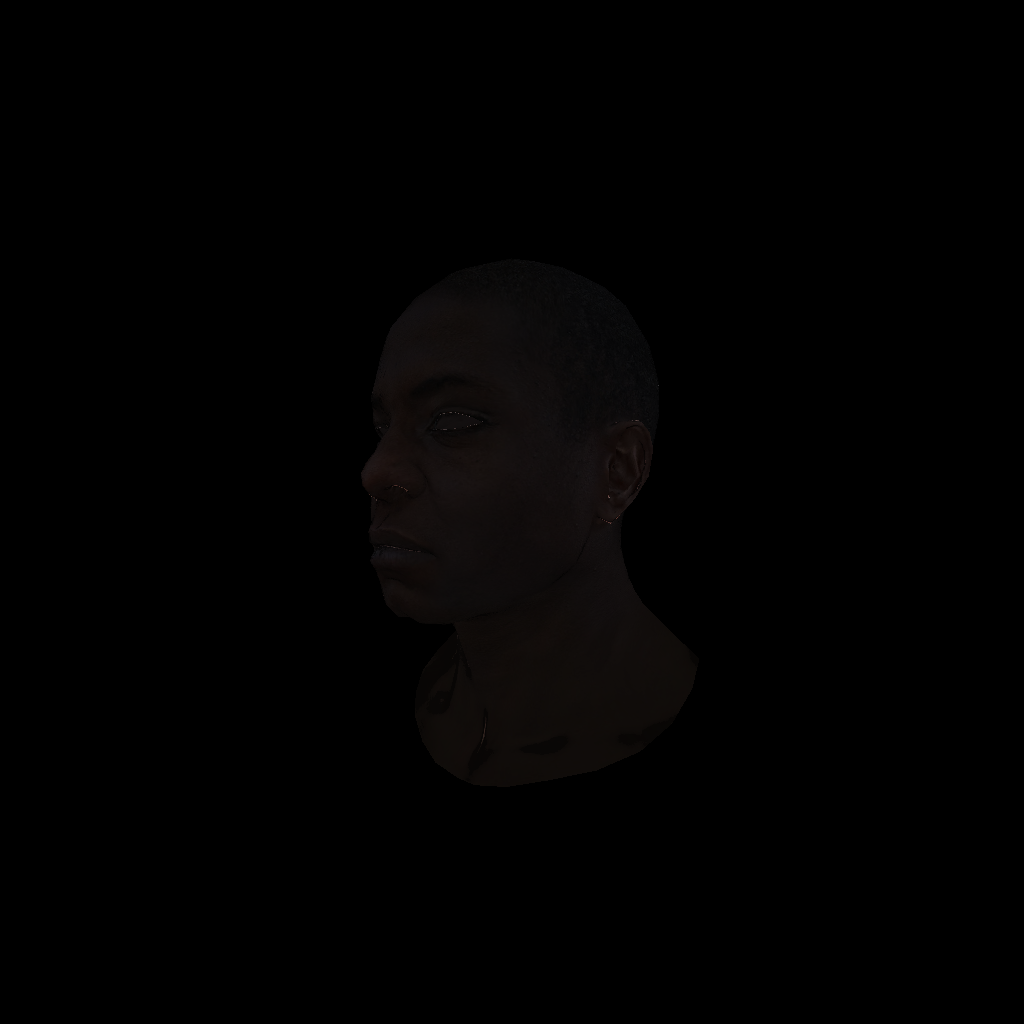
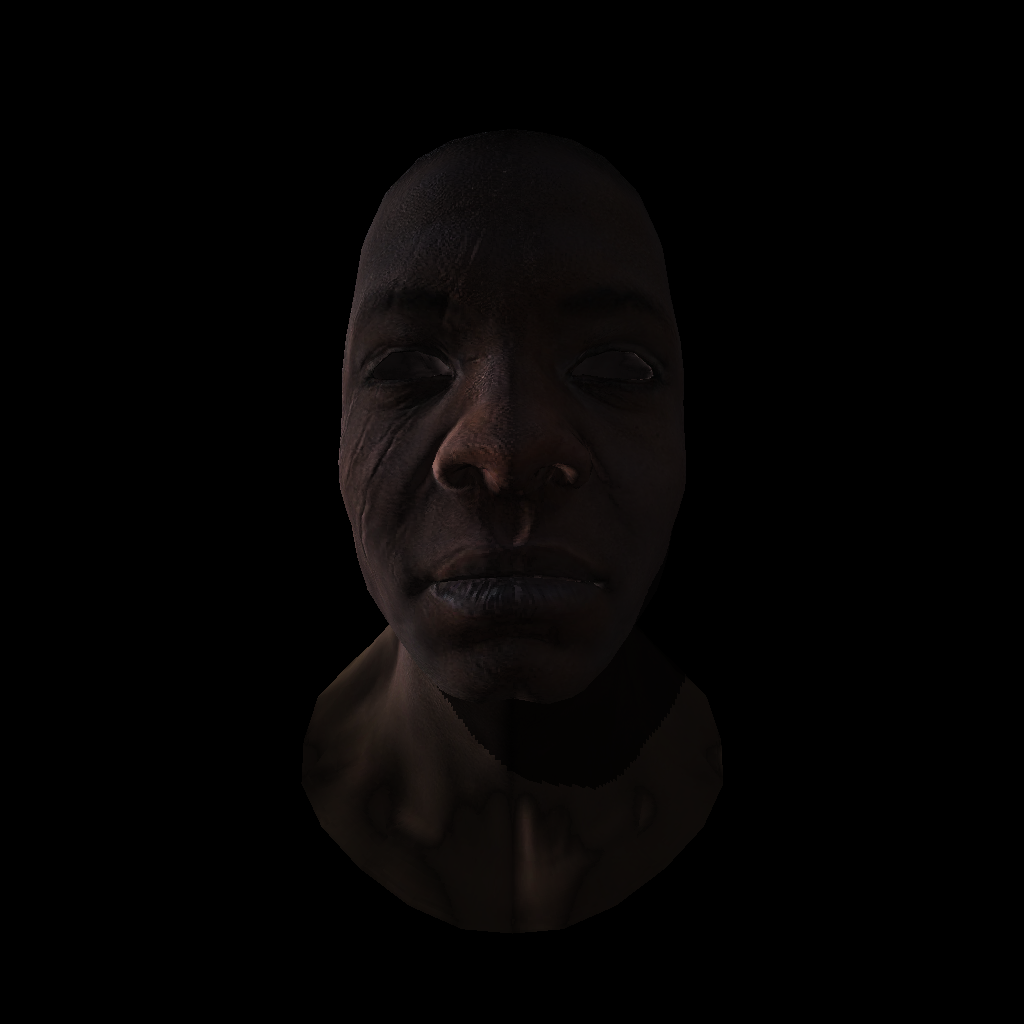
shadow added

Changed region(s): [[0.3125, 0.1562, 0.4688, 0.8125], [0.4062, 0.3438, 0.5, 0.4688], [0.5, 0.7812, 0.5625, 0.9062]]

diff --git a/image.cpp b/image.cpp
@@ -11,9 +11,9 @@ Image::Image() {}
 Image::Image(std::string filename) {
     unsigned char* temp = stbi_load(filename.data(), &width, &height, &channel, 0);
     if (temp != nullptr) {
-        values = std::make_unique<unsigned char[]>(width * height * channel);
+        values = std::make_unique<float[]>(width * height * channel);
         for (int i = 0; i < width * height * channel; i++) {
-            values[i] = temp[i];
+            values[i] = temp[i]/ float(max_pixel_value);
         }
         stbi_image_free(temp);
     } else {
@@ -22,7 +22,7 @@ Image::Image(std::string filename) {
 }
 
 Image::Image(int width, int height, int channel) : height{height}, width{width}, channel{channel} {
-    values = std::make_unique<unsigned char[]>(width * height * channel);
+    values = std::make_unique<float[]>(width * height * channel);
 }
 // std::array<int, 3>& Image::get(int i, int j) {
 //     return values[j * width + i];
@@ -39,32 +39,36 @@ vec3f Image::get(int i, int j) {
         std::cerr << i << " " << j <<std::endl; 
     }
     const auto idx {(j * width + i) * channel};
-    return vec3f{float(values[idx]), float(values[idx+1]), float(values[idx+2])} / max_pixel_value;
+    return vec3f{float(values[idx]), float(values[idx+1]), float(values[idx+2])};
 }
 
 
 void Image::set(int i, int j, vec3f color) {
     const auto idx {(j * width + i) * channel};
-    values[idx] = color[0] * max_pixel_value;
-    values[idx + 1] = color[1] * max_pixel_value;
-    values[idx + 2] = color[2] * max_pixel_value;
+    values[idx] = color[0];
+    values[idx + 1] = color[1];
+    values[idx + 2] = color[2];
 }
 vec3f Image::uv(float i, float j) {
     if (i < 0 or j < 0 or i > 1 or j > 1) {
         std::cerr << i << " " << j << std::endl;
     }
     const auto idx {(int(j * height) * width + int(i * width)) * channel};
-    return vec3f{float(values[idx]), float(values[idx+1]), float(values[idx+2])} / max_pixel_value;
+    return vec3f{float(values[idx]), float(values[idx+1]), float(values[idx+2])};
 }
 
 void Image::write_png(std::string filename, bool flip_vert) {
     stbi_flip_vertically_on_write(flip_vert);
-    stbi_write_png(filename.data(), width, height, channel, values.get(), width*channel);
+    auto temp = std::make_unique<unsigned char[]>(width * height * channel);
+    for (int i = 0; i < width * height * channel; i++) {
+        temp[i] = values[i] * max_pixel_value;
+    }
+    stbi_write_png(filename.data(), width, height, channel, temp.get(), width*channel);
 }
 
 void Image::apply_gamma(float gamma) {
     for (int i = 0; i < height * width * channel; i++) {
-        values[i] = std::pow((float) values[i] / max_pixel_value, gamma) * max_pixel_value;
+        values[i] = std::pow((float) values[i], gamma);
     }
 }
 

diff --git a/shader.h b/shader.h
@@ -53,14 +53,14 @@ struct PhongShader: public Shader<Uniform, class VS_IN, class VS_OUT> {
     };
 
     vec3f fragment_process() override {
-        float shadow = 1;
-        // if (uniform.shadow) {
-        //     vec4f pos_shadow = uniform.transform_shadow * fs_in.viewport_pos;
-        //     pos_shadow = pos_shadow/pos_shadow[3];
-        //     float z = uniform.shadow -> get(pos_shadow[0], pos_shadow[1])[0];
-        //     shadow += .7 *(z < pos_shadow[2]);
-        //     std::cerr << shadow << std::endl;
-        // }
+        float shadow = 0.3;
+        if (uniform.shadow) {
+            vec4f pos_shadow = uniform.transform_shadow * fs_in.viewport_pos;
+            pos_shadow = pos_shadow/pos_shadow[3];
+            float z = uniform.shadow -> get(pos_shadow[0], pos_shadow[1])[0];
+            shadow += 0.7*(z < pos_shadow[2]+0.05);
+            //std::cerr << shadow << std::endl;
+        }
         vec3f kd = uniform.diffuse -> uv(fs_in.uv_coord[0], 1 - fs_in.uv_coord[1]);
         vec3f ks =  uniform.specular -> uv(fs_in.uv_coord[0], 1 - fs_in.uv_coord[1]);
         // vec3f n = uniform.normal -> uv(fs_in.uv_coord[0], 1 - fs_in.uv_coord[1]);
@@ -120,20 +120,25 @@ struct PhongShader: public Shader<Uniform, class VS_IN, class VS_OUT> {
 
 struct DepthShader: public Shader<Uniform, class VS_IN, class VS_OUT> { 
 vec4f vertex_process(int trangle_idx, VS_IN vs_in) override {
-        vs_out[trangle_idx].view_pos =  uniform.transform_viewport * vs_in.vertex_position;
-        return uniform.transform_viewport * vs_in.vertex_position;
+        vs_out[trangle_idx].viewport_pos =  uniform.transform_viewport * vs_in.vertex_position;
+        vs_out[trangle_idx].view_pos = uniform.transform_view * vs_in.vertex_position;
+        return vs_out[trangle_idx].viewport_pos;
     };
 
     vec3f fragment_process() override {
-        float z {fs_in.view_pos[2]};
+        float z {fs_in.viewport_pos[2]};
         //z = (z + 1) / 2;
         return vec3f{z,z,z};
     };
 
     void fragment_interpolation(vec3f barycent) override {
+        float z[3] = {vs_out[0].view_pos[2],vs_out[1].view_pos[2],vs_out[2].view_pos[2]};
+        float z_p = 1. / (barycent[0]/z[0] +  barycent[1]/z[1] + barycent[02]/z[2]);
+
         fs_in = VS_OUT{};
         for (int i = 0; i < 3; i++) {
-            fs_in.view_pos = fs_in.view_pos + vs_out[i].view_pos * barycent[i];
+            fs_in.viewport_pos = fs_in.viewport_pos + vs_out[i].viewport_pos * barycent[i] / z[i];
         }
+        fs_in.viewport_pos = fs_in.viewport_pos * z_p;
     }
 };

diff --git a/main.cpp b/main.cpp
@@ -21,10 +21,11 @@ int main() {
 
     vec3f light_pos {0, 3, 3};
     vec3f light_dir {-2, 0, 0};
-    vec3f view_pos {-1.5, 0, 1.5};
+    vec3f view_pos {0, 0, 1.5};
     unsigned int width {1024};
     unsigned int height {1024};
     mat4f light_transform_viewport;
+    vector<double> shadow_z_buffer;
     // shadow_map
     Image shadow {width, height, 3};
     {   
@@ -33,7 +34,9 @@ int main() {
         mat4f view = look_at(light_pos, light_dir - light_pos, {0,1,0});
         mat4f proj = Mortho(4, -4, 0, 5, -4, 4);
         mat4f port = viewport(0,0, width, height);
-        depth_shader.uniform.transform_viewport = light_transform_viewport= port * proj * view;
+        depth_shader.uniform.transform_viewport =  port * proj * view;
+        depth_shader.uniform.transform_view = view;
+        light_transform_viewport = depth_shader.uniform.transform_viewport;
         for (int idx = 0; idx < m.faces_vrt.size(); idx++) {
             array<vec4f, 3> screen_coord_pts;
             VS_IN vs_in;
@@ -44,6 +47,7 @@ int main() {
             }
             triangle(shadow, depth_shader, screen_coord_pts, z_buffer);
         }
+        z_buffer.swap(shadow_z_buffer);
     }
 
     shadow.write_png("shadow.png", true);

diff --git a/image.h b/image.h
@@ -7,7 +7,7 @@
 class Image {
     int height, width, channel;
     int max_pixel_value = 255;
-    std::unique_ptr<unsigned char[]> values;
+    std::unique_ptr<float[]> values;
     public:
     Image();
     Image(std::string filename);
